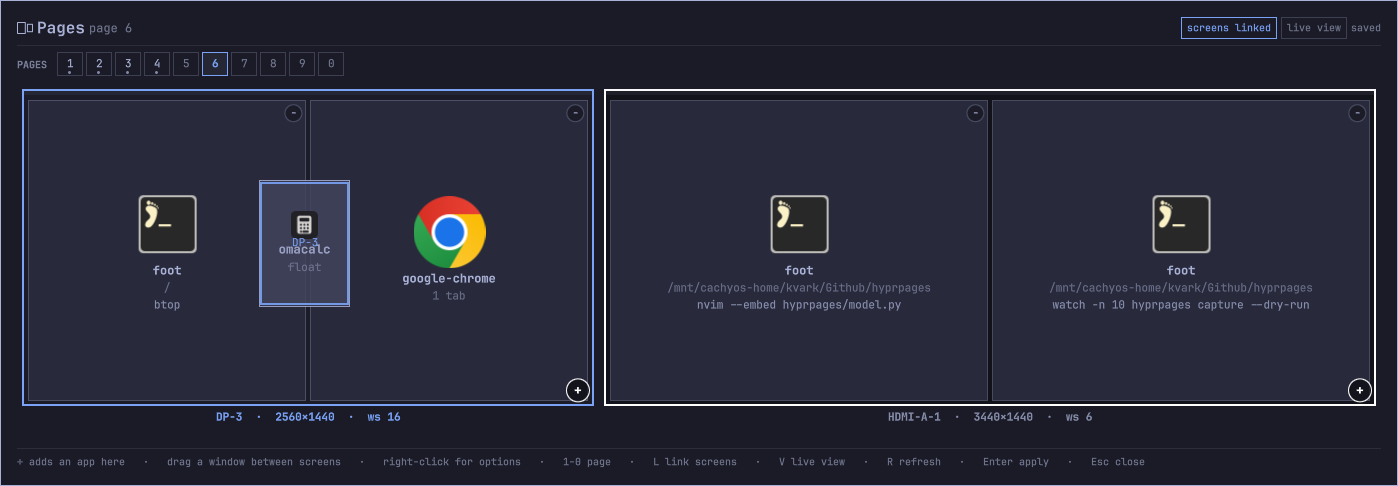
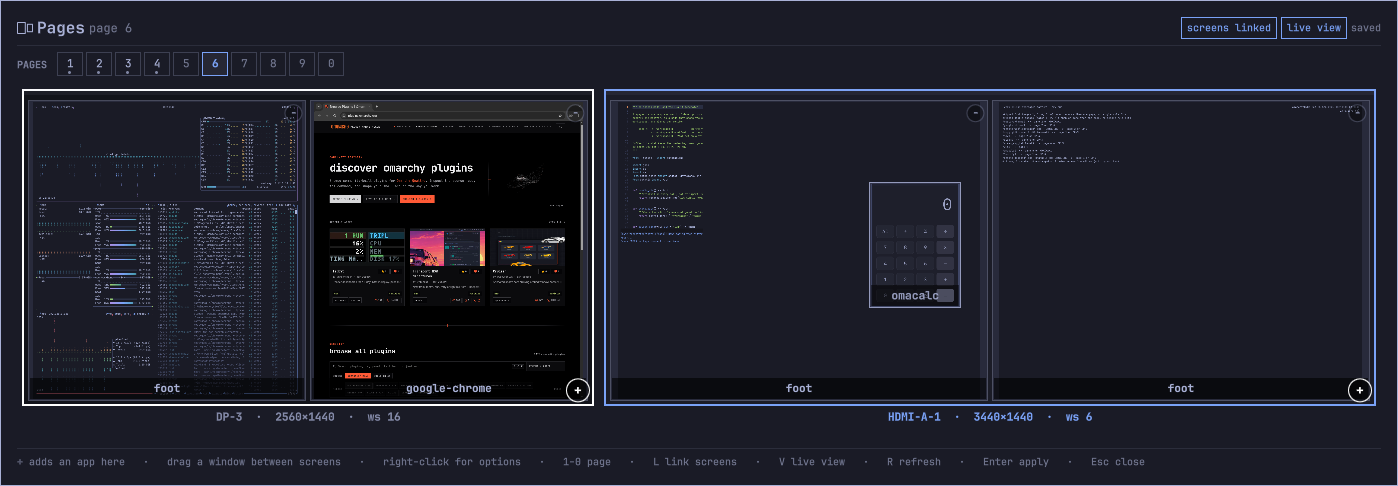
Reshoot the drag screenshot without the label collision
Claude-Session: https://claude.ai/code/session_0168JSEFBQ3YfHJVbaY3fEpR

diff --git a/README.md b/README.md
@@ -21,12 +21,11 @@ Both monitors of one page, drawn to scale. **Live view** fills each tile with
 the window's real content, so you recognise the desktop you are editing rather
 than reading a list of class names.
 
-![Dragging a floating window onto the left-hand screen, which highlights as the drop target](docs/editor-drag.png)
+![Dragging a floating window, with the screen it will land on highlighted](docs/editor-drag.png)
 
-Drag a window to another screen and it moves for real, immediately — the rule
-that keeps it there is written when you press Enter. With icons instead of live
-content, each terminal says what it is: its working directory and the command
-running in it.
+Drag a window and the screen it will land on lights up. Let go and it moves for
+real, immediately — the rule that keeps it there is written when you press
+Enter.
 
 ![The application picker, open over the editor, adding an app to a named screen](docs/editor-add-app.png)
 
